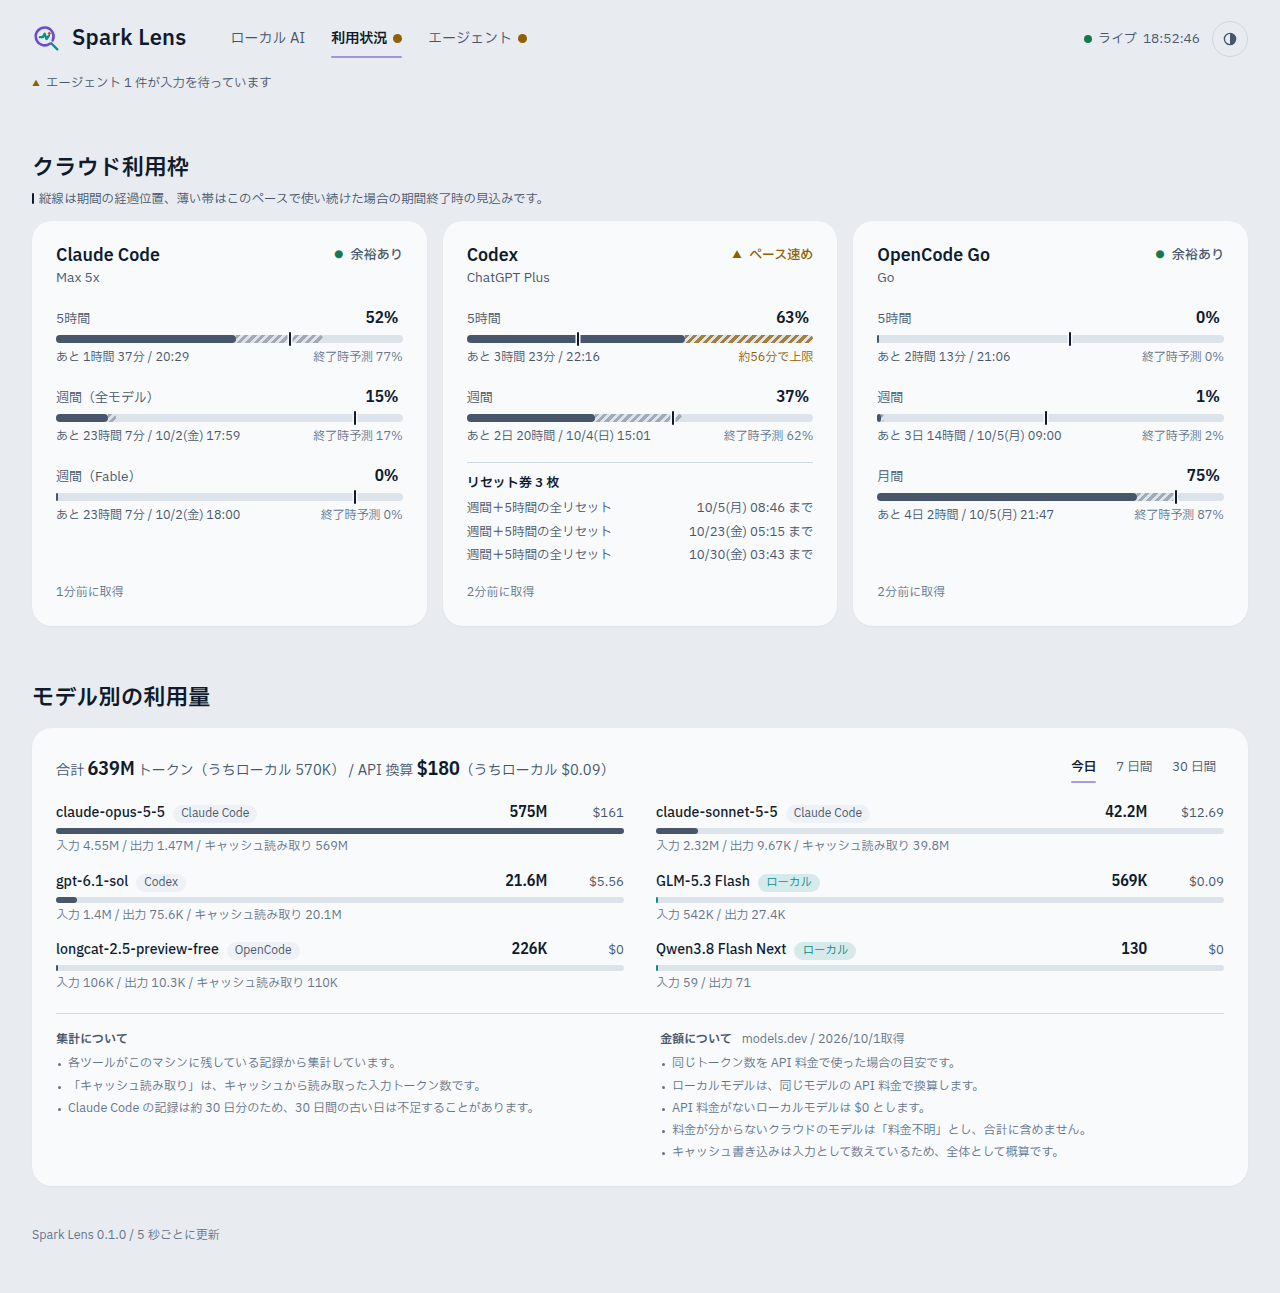
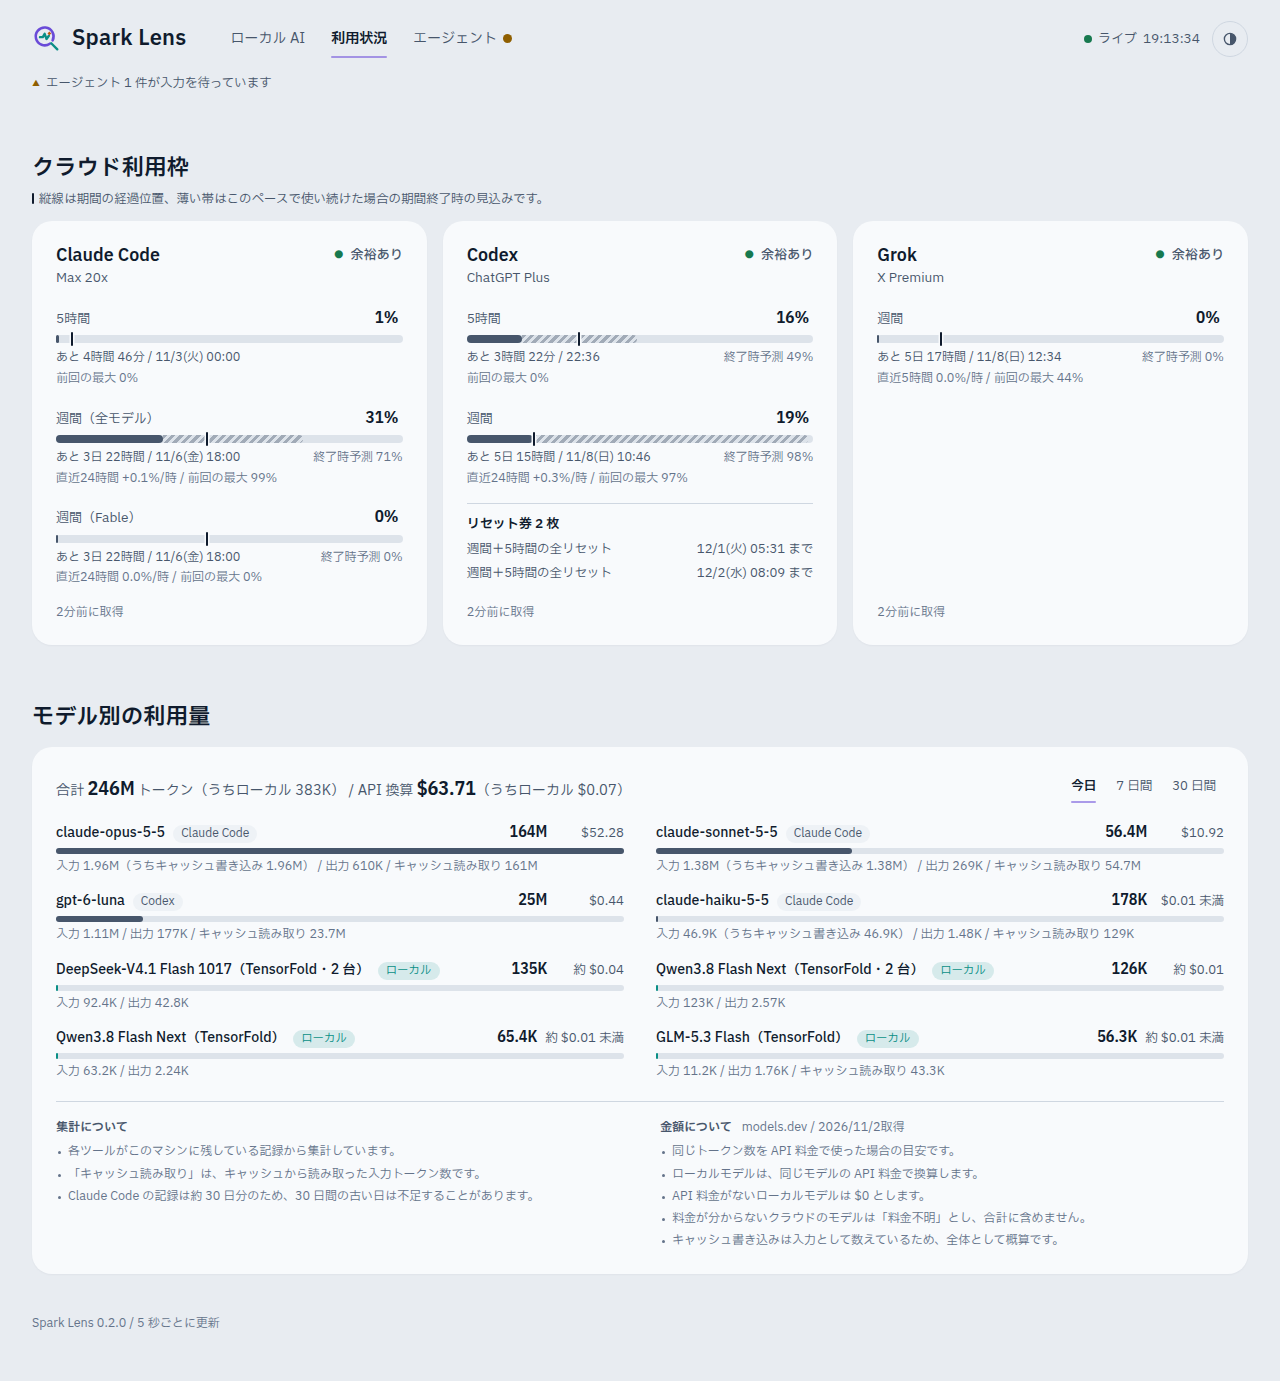
README の画像を最新の画面に更新し、撮り直しの手順をスキルにする
- docs/images の4枚を、匿名化したサンプルデータで撮り直した（モデル・ベンチ・マシンの表示が現行のものに）
- readme-screenshots スキル：実データの匿名化、モック、撮影のスクリプトと手順。置換表は設定ディレクトリに置き、リポジトリには入れない

diff --git a/.agents/skills/readme-screenshots/scripts/sanitize.py b/.agents/skills/readme-screenshots/scripts/sanitize.py
@@ -1,0 +1,37 @@
+"""Turn a live /api/state into an anonymous snapshot for the README screenshots.
+
+usage: python3 -I sanitize.py <state.real.json> <state.demo.json>
+The names to replace come from ~/.config/spark-lens/screenshot-map.json (kept out of the repository):
+{"replace": [["real host", "Spark 1"], ...], "leak_pattern": "regex of things that must not remain"}
+"""
+import json, os, re, sys
+src, dst = sys.argv[1], sys.argv[2]
+cfg = json.load(open(os.path.expanduser("~/.config/spark-lens/screenshot-map.json")))
+s = json.load(open(src))
+s["llms"] = [l for l in s["llms"] if l["id"] not in cfg.get("drop_llms", [])]
+now = s["generatedAt"]
+tmpl = {"pid": None, "startedAt": None, "cpuPct": None, "host": "dev", "hostLabel": "Workstation", "confidence": "inferred"}
+def agent(i, tool, label, name, status, task, detail, source, ago):
+    return {**tmpl, "id": f"{tool}:demo-{i}", "tool": tool, "toolLabel": label, "title": task, "cwd": f"~/projects/{name}",
+            "status": status, "lastActivity": now - ago * 1000, "detail": detail, "source": source}
+s["agents"] = [
+    agent(1, "claude", "Claude Code", "demo-app", "working", "ダッシュボードの README を更新", "Edit", "claude-session", 26),
+    agent(2, "codex", "Codex", "demo-api", "working", "API クライアントのリトライ処理を見直す", "gpt-6.1-sol", "codex-log", 26),
+    agent(3, "opencode", "OpenCode", "demo-app", "idle", "テストの失敗原因を調べる", "", "opencode-api", 26),
+    agent(4, "claude", "Claude Code", "demo-cli", "waiting", "依存関係の更新を確認", "", "claude-session", 26),
+]
+for h in s["hosts"]:
+    h["containers"] = [c for c in h["containers"] if re.search(r"dsv41|glm53|qwen38", c["name"])]
+for r in s["recipes"]:
+    u = r.get("upstream")
+    if u and u.get("state") != "current":
+        u.update({"state": "current", "behind": 0, "latest": u.get("head"), "latestDate": u.get("headDate"), "commits": []})
+s["agentSources"] = [x for x in s["agentSources"] if x["source"] != "orca"]
+counts = {"claude-session": 2, "codex-log": 1, "opencode-api": 1}
+for x in s["agentSources"]: x["count"] = counts.get(x["source"], x["count"])
+text = json.dumps(s, ensure_ascii=False)
+for a, b in cfg["replace"]:
+    text = text.replace(a, b)
+open(dst, "w").write(text)
+bad = re.findall(cfg["leak_pattern"] + r"|\b(?:172\.16|192\.168|100\.\d+)\.\d+\.\d+", text, re.I)
+print("leaks:", sorted(set(bad)))

diff --git a/.agents/skills/readme-screenshots/SKILL.md b/.agents/skills/readme-screenshots/SKILL.md
@@ -1,0 +1,33 @@
+---
+name: readme-screenshots
+description: README の画像（docs/images の lab・lab-dark・usage・agents）を、実際の画面から匿名化したデータで撮り直す。画面を変えたとき、または画像が古くなったときに使う。
+---
+
+README の画像は、実データではなく匿名のサンプルで撮る（マシン名・作業内容・他プロジェクトのコンテナ名を置き換える）。サービスが動いている開発機で行う。
+
+## 前提
+
+- 置換表 `~/.config/spark-lens/screenshot-map.json`（リポジトリに入れない）：`replace`（実名 → 公開してよい名前の組）、`leak_pattern`（残ってはいけない語の正規表現）、`drop_llms`（画像に出さないモデルの id）。
+- ブラウザ：Playwright が取得済みの Chromium（`~/.cache/ms-playwright/chromium-*/chrome-linux64/chrome`）。`playwright-core` の入ったディレクトリ（例：`$(npm root -g)/@playwright/cli/node_modules`）。ライブラリの版と合わない Chromium は `CHROME` で直接指定する。
+- 撮りたい状態にしておく：モデルが1つ稼働中（`up`）、直近のベンチがある、上流が最新（画面に更新の帯が出ない）。
+
+## 手順
+
+1. 最新のコードで `pnpm build`（`dist/` を作る）。
+2. 実データの取得と匿名化：
+   ```sh
+   curl -s http://127.0.0.1:8686/api/state > /tmp/state.real.json
+   python3 -I .agents/skills/readme-screenshots/scripts/sanitize.py /tmp/state.real.json /tmp/state.demo.json
+   ```
+   `leaks: []` を確認する（空でなければ置換表を足して再実行）。エージェントは固定のサンプル4件に入れ替わり、他のコンテナは除かれ、上流の更新帯は消える。
+3. モックを立てる（`dist/` とサンプルのスナップショットを配る。ポートは空いているもの。5199 は別アプリが使うことがある）：
+   `node .agents/skills/readme-screenshots/scripts/mock.mjs dist /tmp/state.demo.json 5671 &`
+4. 撮る：
+   `CHROME=<chrome> node .agents/skills/readme-screenshots/scripts/shoot.mjs <playwright-core のあるディレクトリ> http://127.0.0.1:5671 /tmp/shots`
+   幅 1280。`lab`・`lab-dark` は「マシン」の見出しの手前まで、`usage` は全体、`agents` は高さ 620。
+5. 目で確認する（実名・パス・他プロジェクトのコンテナ名・IP が写っていないか、レイアウトが崩れていないか）。問題なければ `docs/images/` へ置き、PR にする。モックは止める。
+
+## 注意
+
+- 利用枠・トークン数・プラン名は実データのまま出る（以前の画像と同じ）。出したくなければ `sanitize.py` に項目を足す。
+- ライブ時刻（右上）と「○分前」は撮った時点の値になる。
